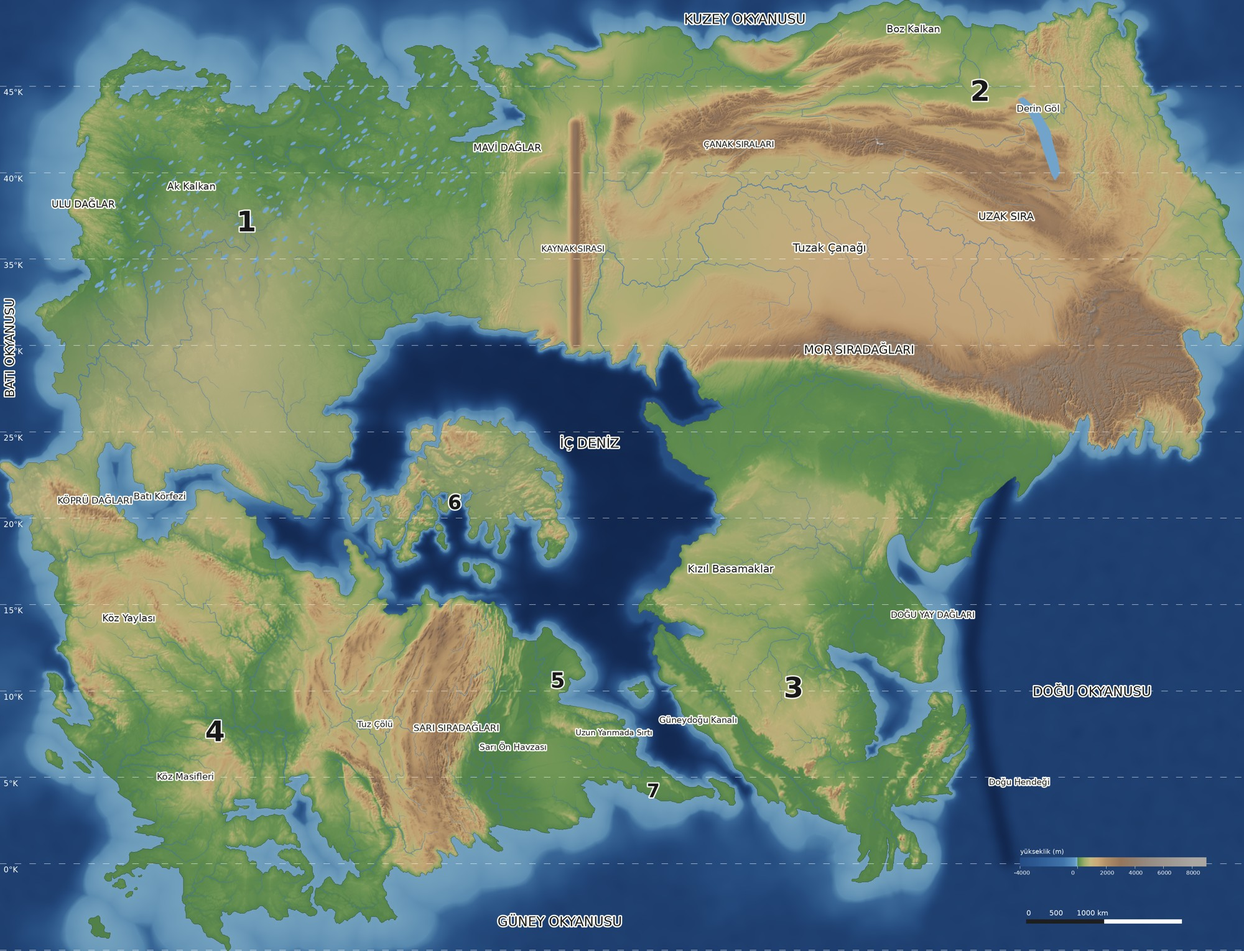
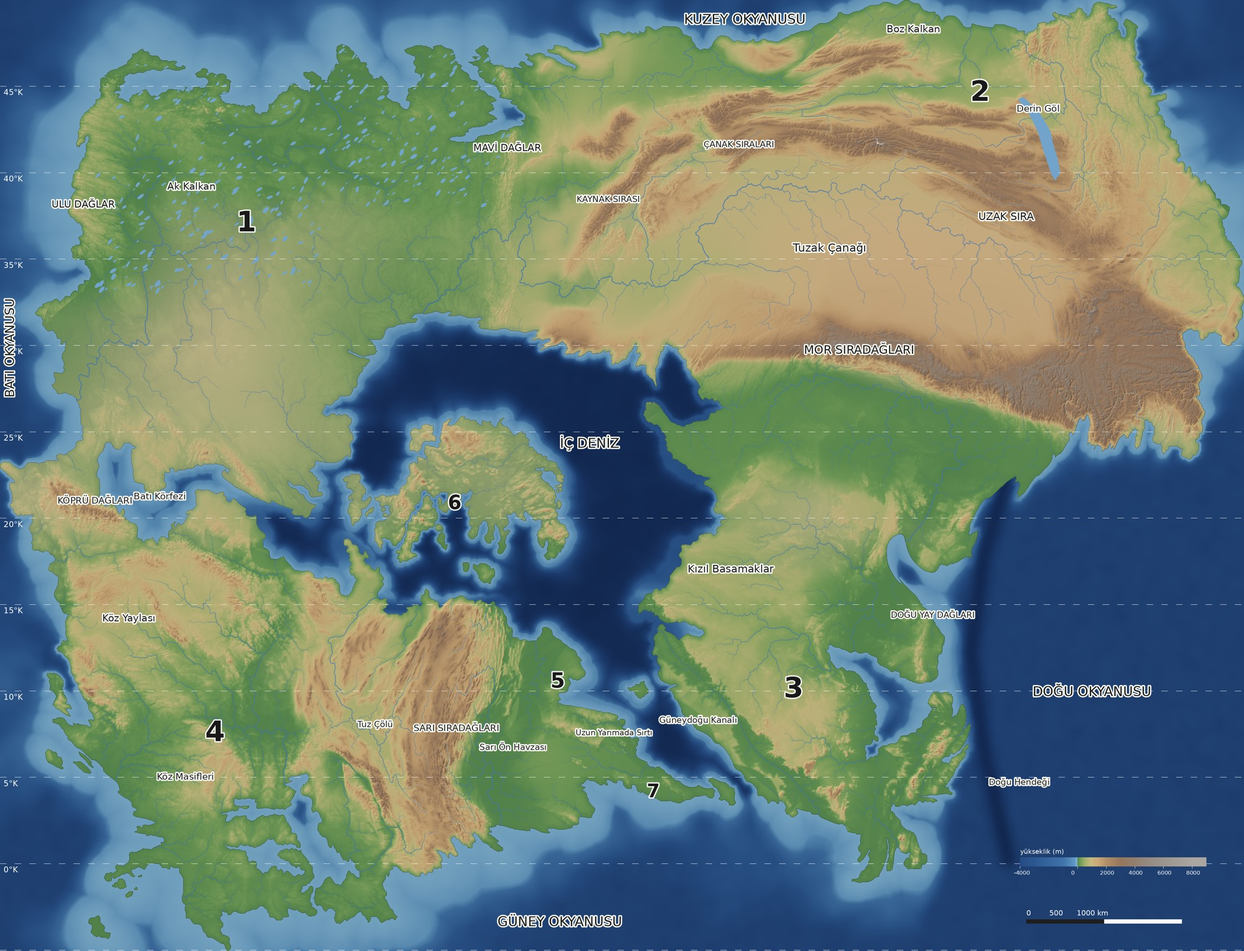
Tarih: Kaynak Sırası Çanak Sıraları'ndan güneybatıya inen kol (sahibin çizdiği yön)
Claude-Session: https://claude.ai/code/session_01TrTgWsQ7k9npTcPJkL6aYQ

Changed region(s): [[0.434, 0.1229, 0.589, 0.3686]]

diff --git a/tarih/benzer.py b/tarih/benzer.py
@@ -55,12 +55,16 @@ KARSILIK = [
                   (1120, 520), (1040, 560), (900, 600), (855, 560)],
     },
     {   # Tuzak Çanağı'nın batı kenarı: Kaynak Sırası (2 milyar yıllık Kaynak dikişi, Mor çarpışmasıyla yeniden sıkıştı).
-        # Atlas oturumunun kararı: atlas koordinatlarında yaklaşık 4°B boylamında, 36°K ile 51°K arasında kesintisiz, kuzey güney
-        # uzanımlı; atlas çözünürlüğünde doruklar 3000 ile 3500 m. Doku Büyük Kafkas'tan; sürekliliği SIRT_ZARF sağlar.
-        "ad": "Kaynak", "kutu": (35, 51, 39, 47.5), "parca": {"2"}, "carpan": 0.8, "oncelik": 3.0, "yumusak_km": 35,
+        # Atlas oturumunun kararı: atlas koordinatlarında yaklaşık 4°B, 36°K ile 51°K arası kesintisiz; atlasta doruklar 3000 ile 3500 m.
+        # Gerçek doku Büyük Kafkas'tan, hafif kıvrılan bir hat boyunca; altında geniş ve alçak bir kabartı (SIRT_TABAN) boşluk bırakmaz.
+        "ad": "Kaynak", "kutu": (35, 51, 39, 47.5), "parca": {"2"}, "oncelik": 4.0, "yumusak_km": 35, "bukme_kat": 0.0,
+        "yukseklik_egri": [(0, 0), (1000, 900), (2500, 2150), (4000, 3000), (5700, 3500)],
         "etiket": [("KAYNAK SIRASI", 42.4, 43.35, 14)],
-        "nokta": [(925, 547, 37.4, 44.9), (925, 400, 42.4, 43.35), (925, 205, 48.5, 41.2)],
-        "bolge": [(895, 185), (955, 185), (965, 400), (960, 560), (890, 560), (885, 400)],
+        # sahibin çizdiği yön: Çanak Sıraları'nın batı ucundan güneybatıya inen kol (görüntü pikseli)
+        "nokta": [(905, 452, 37.6, 44.8), (957, 362, 40.6, 43.7), (1005, 297, 43.6, 42.95), (1045, 258, 45.6, 42.3),
+                  (1078, 235, 47.5, 41.5), (1115, 215, 49.2, 40.8)],
+        "bolge": [(880, 420), (930, 330), (990, 255), (1060, 200), (1130, 180), (1145, 235), (1080, 280), (1020, 340),
+                  (975, 405), (935, 485), (880, 480)],
     },
     {   # Mor Sıradağları: yalnız dar sıra şeridi; karşılığı aynalanmış Himalaya'nın ön kuşağı (arkasındaki yayla dahil değil),
         # yükseklik 6 km dolayına ölçekli. Çanak bölgesinin üstüne baskın yazılır.
@@ -297,30 +301,31 @@ def tasarla(z, kara, s, doku):
 
 
 GOL = None
-# Kaynak Sırası: kesintisiz sırt zarfı ve doruk sınırı (atlas: 4°B, 36°K ile 51°K, doruklar 3000 ile 3500 m)
-SIRT_ZARF = {"cizgi": [(925, 200), (925, 552)], "tepe": 3380.0, "yari_km": 40.0, "ust": 3550.0}
+# Kaynak Sırası: dokunun altına geniş ve alçak kabartı (boşluk kalmasın); doruklar yumuşak sınırla 3500 m dolayında tutulur
+SIRT_TABAN = {"cizgi": [(905, 452), (957, 362), (1005, 297), (1045, 258), (1078, 235), (1115, 215)],
+              "kabarti": 900.0,
+              "yari_km": 65.0, "ust": 3750.0}
 
 
-def sirt_zarf(z, kara, s):
+def sirt_taban(z, kara, s):
     from scipy.spatial import cKDTree
-    c = np.array(SIRT_ZARF["cizgi"], float)
-    pts = np.vstack([c[0] + (c[1] - c[0]) * t for t in np.linspace(0, 1, 400)[:, None]]) * s
+    c = np.array(SIRT_TABAN["cizgi"], float)
+    pts = np.vstack([c[i] + (c[i + 1] - c[i]) * t for i in range(len(c) - 1) for t in np.linspace(0, 1, 80)[:, None]]) * s
     ny, nx = z.shape
-    r0, r1 = int(c[:, 1].min() * s) - 200, int(c[:, 1].max() * s) + 200
-    c0, c1 = int(c[:, 0].min() * s) - 200, int(c[:, 0].max() * s) + 200
-    r0, c0 = max(r0, 0), max(c0, 0); r1, c1 = min(r1, ny), min(c1, nx)
+    r0, r1 = max(int(c[:, 1].min() * s) - 250, 0), min(int(c[:, 1].max() * s) + 250, ny)
+    c0, c1 = max(int(c[:, 0].min() * s) - 250, 0), min(int(c[:, 0].max() * s) + 250, nx)
     yy, xx = np.mgrid[r0:r1, c0:c1]
-    d, _ = cKDTree(pts).query(np.stack([xx.ravel(), yy.ravel()], 1))
+    d, i = cKDTree(pts).query(np.stack([xx.ravel(), yy.ravel()], 1))
     d = d.reshape(xx.shape) * O.KM_PX / s
-    g = ndimage.gaussian_filter(np.random.default_rng(41).standard_normal(xx.shape), 25 / (O.KM_PX / s))
-    zarf = SIRT_ZARF["tepe"] * (0.97 + 0.03 * np.clip(g / g.std(), -2, 2)) * np.exp(-(d / SIRT_ZARF["yari_km"]) ** 2)
-    alt = z[r0:r1, c0:c1]
-    yeni = np.maximum(alt, zarf)
-    u = SIRT_ZARF["ust"] - 250
-    yeni = np.where(yeni > u, u + 250 * np.tanh((yeni - u) / 250), yeni)  # doruk sınırı yumuşak
-    w = np.exp(-(d / 120) ** 2)  # sınır yalnız sırtın çevresinde
+    # uçlarda sönsün (kuzey ve güney ucu doğal biter)
+    t = (i.reshape(xx.shape) / (len(pts) - 1))
+    uc = np.clip(t / 0.04, 0, 1) * np.clip((1 - t) / 0.04, 0, 1)
+    k = SIRT_TABAN["kabarti"] * np.exp(-(d / SIRT_TABAN["yari_km"]) ** 2) * uc
+    alt = z[r0:r1, c0:c1] + k
+    u = SIRT_TABAN["ust"] - 300
+    alt = np.where(alt > u, u + 300 * np.tanh((alt - u) / 300), alt)
     z = z.copy()
-    z[r0:r1, c0:c1] = np.where(kara[r0:r1, c0:c1], alt * (1 - w) + yeni * w, alt)
+    z[r0:r1, c0:c1] = np.where(kara[r0:r1, c0:c1], alt, z[r0:r1, c0:c1])
     return z
 
 
@@ -398,7 +403,7 @@ def bilesik():
     Wl = ndimage.gaussian_filter(np.asarray(im), 40 / (O.KM_PX / s))
     z = np.where(z > 850, 850 + (z - 850) * (1 - 0.75 * Wl), z)
     z = on_ova(z, kara, s, lab, adlar)
-    z = sirt_zarf(z, kara, s)
+    z = sirt_taban(z, kara, s)
     if TASARIM.get("etkin"):
         k_t = TASARIM["doku"]
         im = Image.new("L", (nx, ny), 0)

diff --git a/tarih/notlar/KARARLAR.md b/tarih/notlar/KARARLAR.md
@@ -54,3 +54,5 @@ kullanalım, ama tam olarak aynısı olmadan." Seçtiğim karşılıklar (benzer
 Tuzak Çanağı'nın batı kenarına kesintisiz kuzey güney sırt: atlas koordinatlarında yaklaşık 4°B, 36°K ile 51°K arası.
 Atlas çözünürlüğünde (0,088°) ölçülen sırt tepesi her satırda 3034 ile 3383 m (medyan 3203). Amaç: havzanın yaklaşık %43'ü bozkır.
 Hikâyede 2 milyar yıllık Kaynak dikişinin Mor çarpışmasıyla yeniden sıkışması.
+Güncelleme (aynı gün): sahip düz kuzey güney sırtı beğenmedi, kendi çizdiği yönü verdi. Kaynak Sırası artık Çanak Sıraları'nın batı
+ucundan ayrılıp güneybatıya inen bir kol: atlasta yaklaşık 50,6°K 4,3°D'den 40,3°K 4,9°B'ye; gövdesi 2750 ile 3430 m, güneybatı ucu sönüyor.
